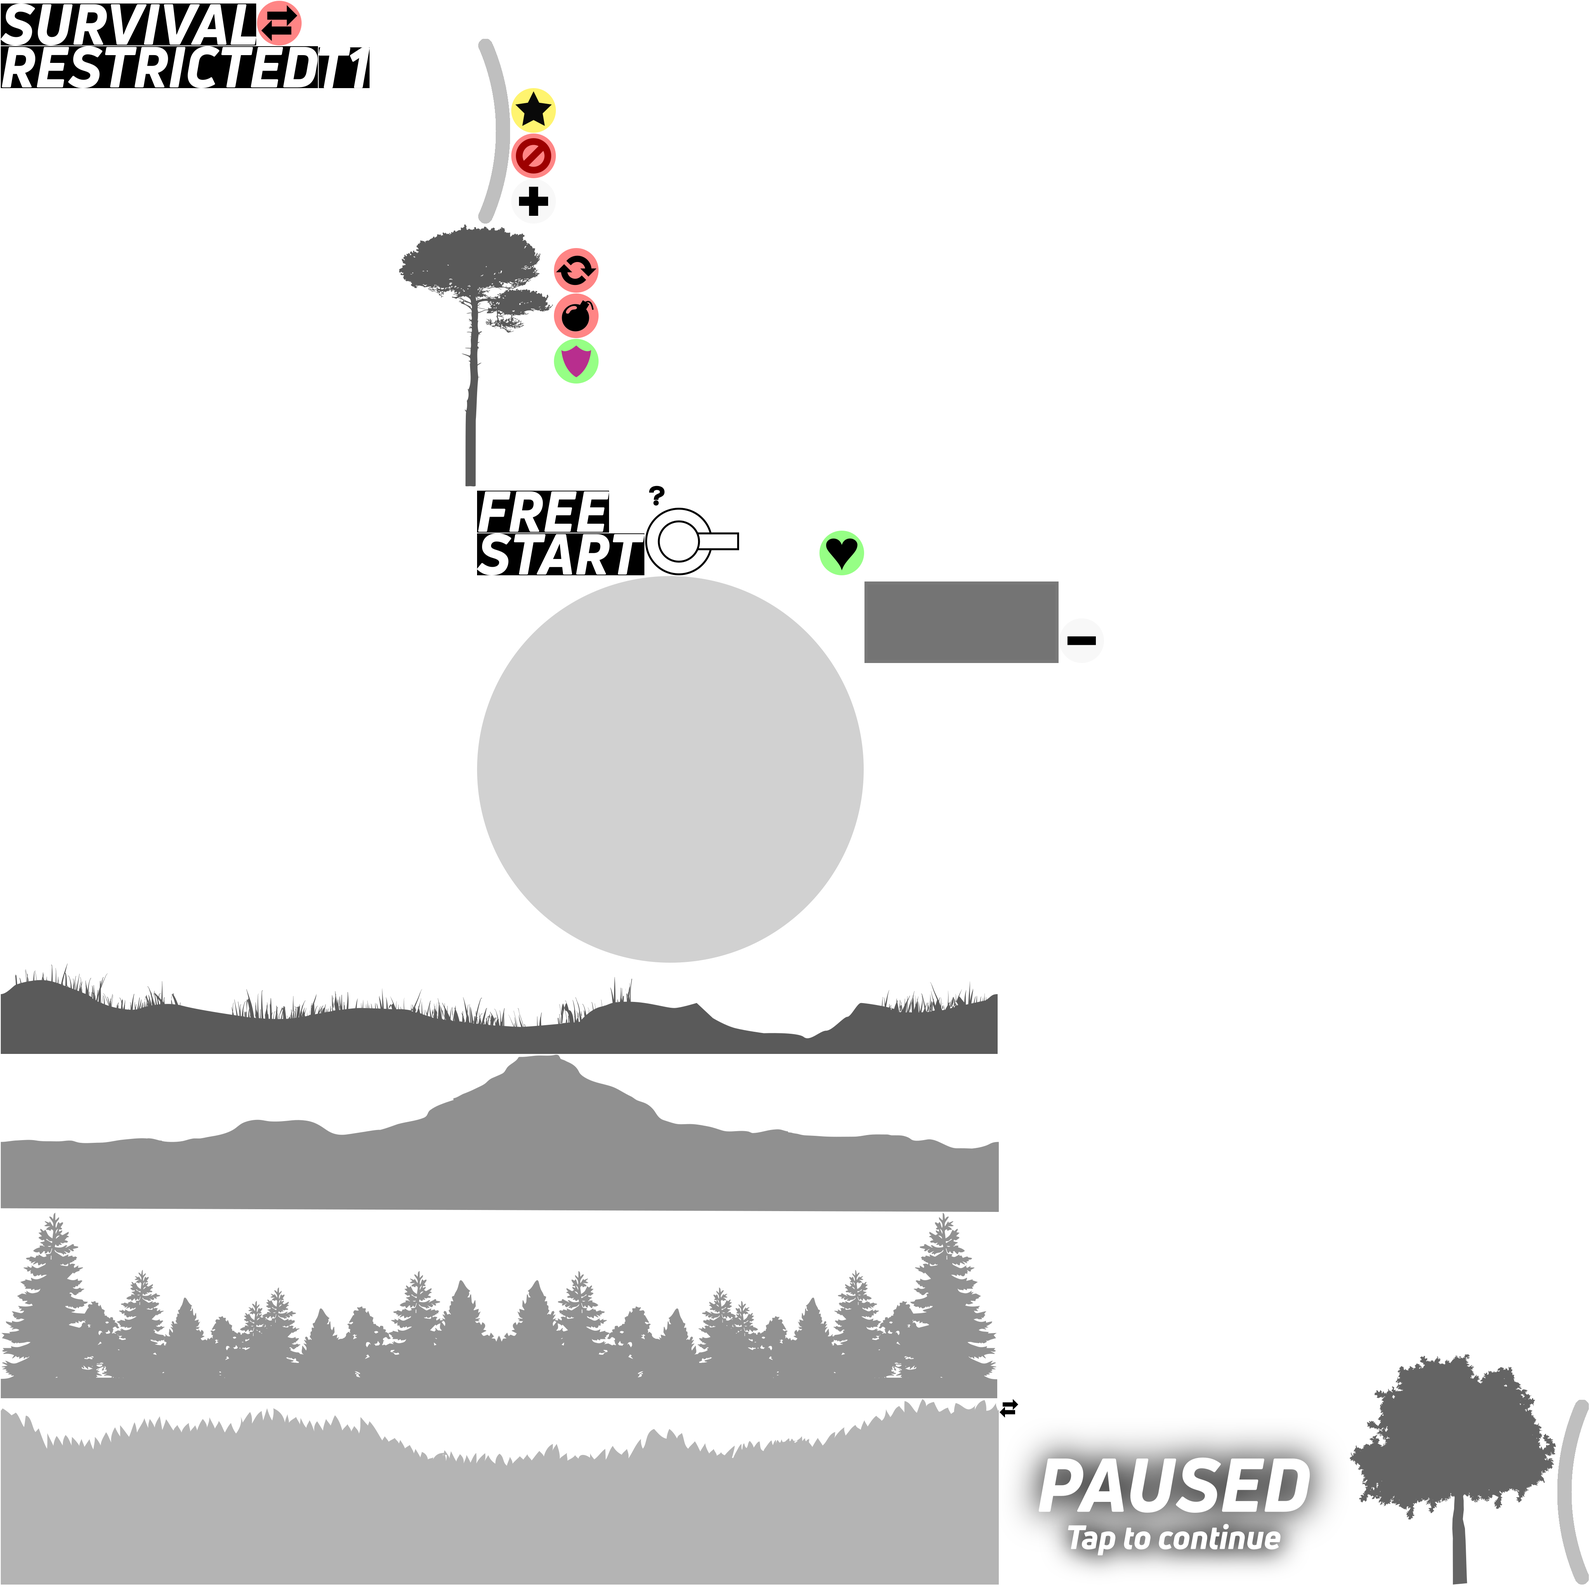
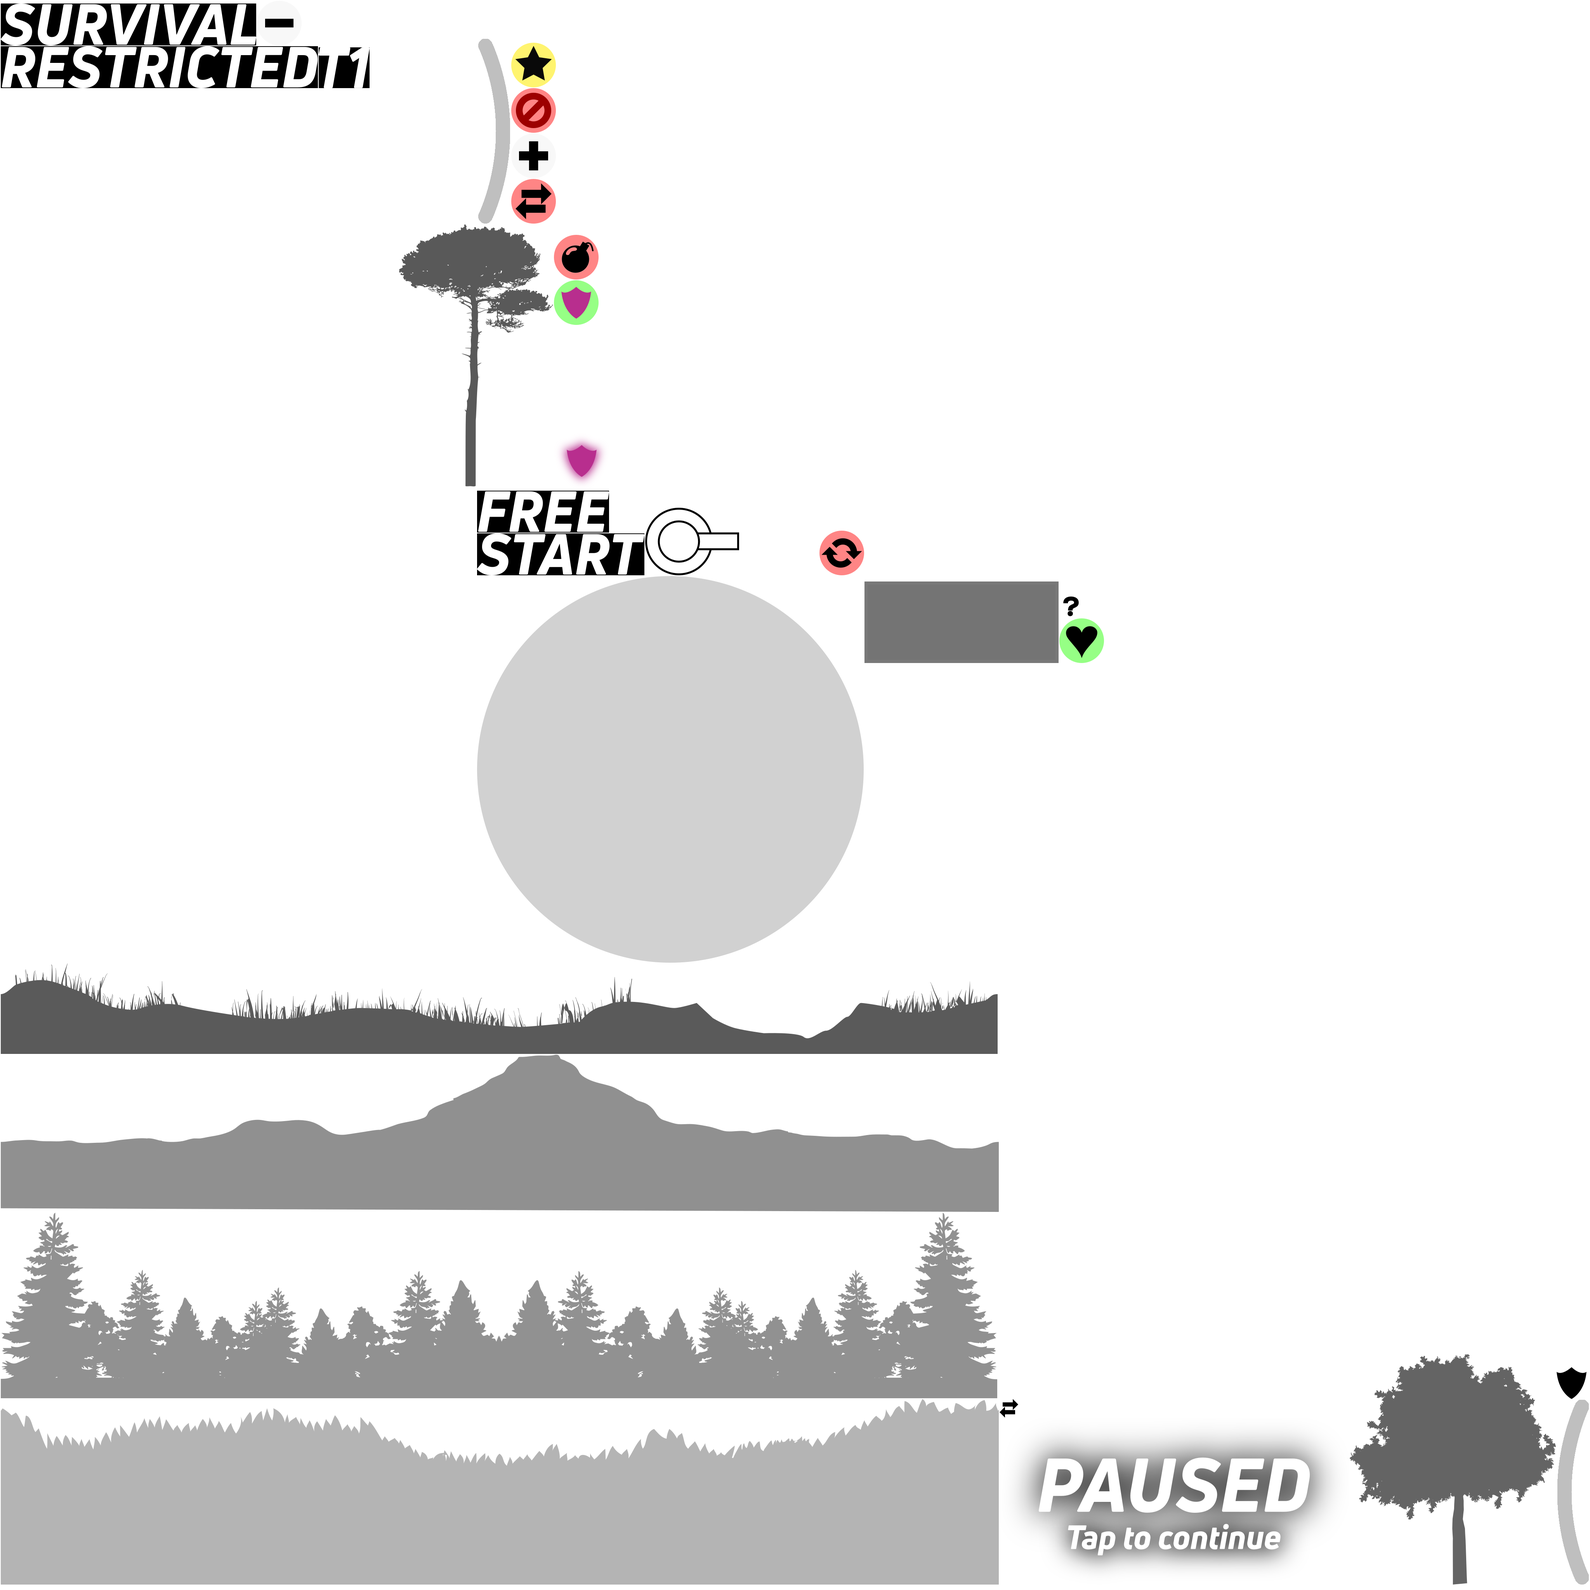
-> The UI of how many armor bullets the player collected. -> Some minor bugs. -> Naming some constants.

diff --git a/core/src/com/yaamani/battleshield/alpha/Game/Screens/Gameplay/LazerAttackStuff.java b/core/src/com/yaamani/battleshield/alpha/Game/Screens/Gameplay/LazerAttackStuff.java
@@ -2,7 +2,9 @@ package com.yaamani.battleshield.alpha.Game.Screens.Gameplay;
 
 import com.badlogic.gdx.Gdx;
 import com.badlogic.gdx.scenes.scene2d.actions.Actions;
+import com.badlogic.gdx.scenes.scene2d.ui.Image;
 import com.badlogic.gdx.utils.viewport.Viewport;
+import com.yaamani.battleshield.alpha.Game.Utilities.Assets;
 import com.yaamani.battleshield.alpha.MyEngine.MyMath;
 import com.yaamani.battleshield.alpha.MyEngine.MyText.SimpleText;
 import com.yaamani.battleshield.alpha.MyEngine.Resizable;
@@ -24,6 +26,12 @@ public class LazerAttackStuff implements Updatable, Resizable {
     private int currentNumOfLazerAttacksThatTookPlace;
 
     private int currentNumOfSpawnedArmorBulletsForTheNextAttack;
+    private int currentNumOfCollectedArmorBulletsByThePlayerForNextAttack;
+
+    // How many armor bullets the player collected ui.
+    private Image armorBlack;
+    private Image armorGlowing;
+    private SimpleText collectedArmorBulletsText;
 
     private Timer test;
 
@@ -33,40 +41,66 @@ public class LazerAttackStuff implements Updatable, Resizable {
         this.gameplayScreen = gameplayScreen;
         initializeNextLazerAttackTimer();
 
+        initializeHowManyArmorBulletsThePlayerCollected();
+
+
         test = new Timer(2000) {
             @Override
             public void onStart() {
                 super.onStart();
                 Gdx.app.log(TAG, "LAZER LAZER !!!!");
-                gameplayScreen.getControllerLeft().addAction(Actions.alpha(0, 0.25f));
-                gameplayScreen.getControllerRight().addAction(Actions.alpha(0, 0.25f));
+                gameplayScreen.getControllerLeft().addAction(Actions.alpha(0, LAZER_ALPHA_ACTION_DURATION));
+                gameplayScreen.getControllerRight().addAction(Actions.alpha(0, LAZER_ALPHA_ACTION_DURATION));
             }
 
             @Override
             public void onFinish() {
                 super.onFinish();
 
+                if (gameplayScreen.getState() != GameplayScreen.State.PLAYING) return;
+
                 currentNumOfLazerAttacksThatTookPlace++;
 
                 Gdx.app.log(TAG, "LAZER ENDS !!!!");
-                gameplayScreen.getControllerLeft().addAction(Actions.alpha(1, 0.2f));
-                gameplayScreen.getControllerRight().addAction(Actions.alpha(1, 0.2f));
+                gameplayScreen.getControllerLeft().addAction(Actions.alpha(1, LAZER_ALPHA_ACTION_DURATION));
+                gameplayScreen.getControllerRight().addAction(Actions.alpha(1, LAZER_ALPHA_ACTION_DURATION));
 
                 if (currentNumOfLazerAttacksThatTookPlace < LAZER_NUMBER_OF_LAZER_ATTACKS) {
-                    nextLazerAttackTimerText.addAction(Actions.alpha(1, 0.25f));
+                    nextLazerAttackTimerText.addAction(Actions.alpha(1, LAZER_ALPHA_ACTION_DURATION));
                     nextLazerAttackTimer.start();
+                } else {
+                    armorBlack.addAction(Actions.alpha(0, LAZER_ALPHA_ACTION_DURATION));
+                    armorGlowing.addAction(Actions.alpha(0, LAZER_ALPHA_ACTION_DURATION));
+                    collectedArmorBulletsText.addAction(Actions.alpha(0, LAZER_ALPHA_ACTION_DURATION));
                 }
+
+                currentNumOfCollectedArmorBulletsByThePlayerForNextAttack = 0;
+                updateCharacterSequenceForCollectedArmorBulletsText();
+                armorGlowing.addAction(Actions.alpha(0, LAZER_ALPHA_ACTION_DURATION));
 
                 lazerAttacking = false;
                 gameplayScreen.getBulletsHandler().newWave();
             }
         };
+
+        gameplayScreen.addToFinishWhenLosing(test);
     }
 
     @Override
     public void resize(int width, int height, float worldWidth, float worldHeight) {
         nextLazerAttackTimerText.setHeight(WORLD_SIZE/20f);
         nextLazerAttackTimerText.setPosition(worldWidth/2 - nextLazerAttackTimerText.getWidth()/2f, WORLD_SIZE*0.9f);
+
+        armorBlack.setHeight(LAZER_ARMOR_BULLET_HOW_MANY_COLLECTED_UI_HEIGHT);
+        armorGlowing.setHeight(LAZER_ARMOR_GLOWING_BULLET_HOW_MANY_COLLECTED_UI_HEIGHT);
+        collectedArmorBulletsText.setHeight(LAZER_TEXT_ARMOR_BULLET_HOW_MANY_COLLECTED_UI_HEIGHT);
+
+        armorBlack.setWidth(LAZER_ARMOR_BULLET_HOW_MANY_COLLECTED_UI_HEIGHT*LAZER_ARMOR_BULLET_HOW_MANY_COLLECTED_UI_WIDTH_RATIO);
+        armorGlowing.setWidth(LAZER_ARMOR_GLOWING_BULLET_HOW_MANY_COLLECTED_UI_HEIGHT*LAZER_ARMOR_GLOWING_BULLET_HOW_MANY_COLLECTED_UI_WIDTH_RATIO);
+
+        armorBlack.setPosition(worldWidth/2 - armorBlack.getWidth()/2f, LAZER_ARMOR_BULLET_HOW_MANY_COLLECTED_UI_Y);
+        armorGlowing.setPosition(worldWidth/2 - armorGlowing.getWidth()/2f, LAZER_ARMOR_GLOWING_BULLET_HOW_MANY_COLLECTED_UI_Y);
+        setPositionForCollectedArmorBulletsText();
     }
 
     @Override
@@ -76,6 +110,18 @@ public class LazerAttackStuff implements Updatable, Resizable {
         test.update(delta);
     }
 
+
+    private void setPositionForCollectedArmorBulletsText() {
+        Viewport viewport = gameplayScreen.getStage().getViewport();
+        float worldWidth = viewport.getWorldWidth();
+        collectedArmorBulletsText.setPosition(worldWidth/2 - collectedArmorBulletsText.getWidth()/2f, LAZER_TEXT_ARMOR_BULLET_HOW_MANY_COLLECTED_UI_Y);
+    }
+
+    private void updateCharacterSequenceForCollectedArmorBulletsText() {
+        String charSequence = currentNumOfCollectedArmorBulletsByThePlayerForNextAttack + "/" + LAZER_NECESSARY_NUMBER_OF_ARMOR_BULLETS_TO_ACTIVATE_THE_LAZER_ARMOR;
+        collectedArmorBulletsText.setCharSequence(charSequence, true);
+        setPositionForCollectedArmorBulletsText();
+    }
 
     /**
      * Milliseconds.
@@ -172,14 +218,50 @@ public class LazerAttackStuff implements Updatable, Resizable {
         currentNumOfSpawnedArmorBulletsForTheNextAttack--;
     }
 
-    //------------------------------ Getters And Setters ------------------------------
-    //------------------------------ Getters And Setters ------------------------------
-    //------------------------------ Getters And Setters ------------------------------
-    //------------------------------ Getters And Setters ------------------------------
+    public void incrementCurrentNumOfCollectedArmorBulletsByThePlayerForNextAttack() {
+        if (currentNumOfCollectedArmorBulletsByThePlayerForNextAttack == LAZER_NECESSARY_NUMBER_OF_ARMOR_BULLETS_TO_ACTIVATE_THE_LAZER_ARMOR)
+            return;
 
-    public SimpleText getNextLazerAttackTimerText() {
-        return nextLazerAttackTimerText;
+        currentNumOfCollectedArmorBulletsByThePlayerForNextAttack++;
+        updateCharacterSequenceForCollectedArmorBulletsText();
+
+        if (currentNumOfCollectedArmorBulletsByThePlayerForNextAttack == LAZER_NECESSARY_NUMBER_OF_ARMOR_BULLETS_TO_ACTIVATE_THE_LAZER_ARMOR
+                & armorGlowing.getColor().a == 0) {
+
+            armorGlowing.addAction(Actions.alpha(1, LAZER_ALPHA_ACTION_DURATION));
+        }
     }
+
+    public void show() {
+        nextLazerAttackTimerText.setVisible(true);
+        armorBlack.setVisible(true);
+        armorGlowing.setVisible(true);
+        collectedArmorBulletsText.setVisible(true);
+
+        armorBlack.setColor(1, 1, 1, 1);
+        collectedArmorBulletsText.setColor(BG_COLOR_GREY, BG_COLOR_GREY, BG_COLOR_GREY, 1);
+    }
+
+    public void hide() {
+        nextLazerAttackTimerText.setVisible(false);
+        armorBlack.setVisible(false);
+        armorGlowing.setVisible(false);
+        collectedArmorBulletsText.setVisible(false);
+    }
+
+    public void resetLazerStuff() {
+        lazerAttacking = false;
+        waitingForAllRemainingBulletsToBeCleared = false;
+        currentNumOfLazerAttacksThatTookPlace = 0;
+        currentNumOfSpawnedArmorBulletsForTheNextAttack = 0;
+        currentNumOfCollectedArmorBulletsByThePlayerForNextAttack = 0;
+        updateCharacterSequenceForCollectedArmorBulletsText();
+    }
+
+    //------------------------------ Getters And Setters ------------------------------
+    //------------------------------ Getters And Setters ------------------------------
+    //------------------------------ Getters And Setters ------------------------------
+    //------------------------------ Getters And Setters ------------------------------
 
     public Timer getNextLazerAttackTimer() {
         return nextLazerAttackTimer;
@@ -230,19 +312,34 @@ public class LazerAttackStuff implements Updatable, Resizable {
             @Override
             public void onFinish() {
                 super.onFinish();
+
+                if (gameplayScreen.getState() != GameplayScreen.State.PLAYING) return;
+
                 lazerAttacking = true;
                 waitingForAllRemainingBulletsToBeCleared = true;
 
-                nextLazerAttackTimerText.addAction(Actions.alpha(0, 0.5f));
+                nextLazerAttackTimerText.addAction(Actions.alpha(0, LAZER_ALPHA_ACTION_DURATION));
 
                 /*float timeLeftForTheLastBulletToDisappear = calculateTheTimeLeftForTheLastBulletToDisappear();
                 test.start(timeLeftForTheLastBulletToDisappear);*/
-
-
 
             }
         };
 
         gameplayScreen.addToFinishWhenLosing(nextLazerAttackTimer);
+    }
+
+    private void initializeHowManyArmorBulletsThePlayerCollected() {
+        armorBlack = new Image(Assets.instance.gameplayAssets.armorBlack);
+        armorGlowing = new Image(Assets.instance.gameplayAssets.armorGlowing);
+        collectedArmorBulletsText = new SimpleText(gameplayScreen.getMyBitmapFont(), "");
+        updateCharacterSequenceForCollectedArmorBulletsText();
+
+        gameplayScreen.addActor(armorBlack);
+        gameplayScreen.addActor(armorGlowing);
+        gameplayScreen.addActor(collectedArmorBulletsText);
+
+        armorGlowing.setColor(1, 1, 1, 0);
+        collectedArmorBulletsText.setColor(BG_COLOR_GREY, BG_COLOR_GREY, BG_COLOR_GREY, 1);
     }
 }

diff --git a/core/src/com/yaamani/battleshield/alpha/Game/Screens/Gameplay/GameplayScreen.java b/core/src/com/yaamani/battleshield/alpha/Game/Screens/Gameplay/GameplayScreen.java
@@ -164,10 +164,13 @@ public class GameplayScreen extends AdvancedScreen {
         rotation = Gdx.input.getRotation();
 
 
+        healthHandler.update(delta);
+
         lazerAttackStuff.update(delta);
 
-        if (lazerAttackStuff.isLazerAttacking())
+        if (lazerAttackStuff.isLazerAttacking()) {
             return;
+        }
 
 
         //Gdx.app.log(TAG, "free bullets = " + bulletsHandler.getBulletPool().getFree());
@@ -177,7 +180,6 @@ public class GameplayScreen extends AdvancedScreen {
 
         scoreTimerStuff.update(delta);
 
-        healthHandler.update(delta);
 
 
         shieldsAndContainersHandler.update(delta);
@@ -447,7 +449,7 @@ public class GameplayScreen extends AdvancedScreen {
 
             bulletsHandler.setCurrentPlanetSpecialBullets(null);
 
-            lazerAttackStuff.getNextLazerAttackTimerText().setVisible(false);
+            lazerAttackStuff.hide();
 
             //bulletsHandler.startSurvivalDifficultyTweens();
             bulletsHandler.getD_survival_bulletsPerAttackNumberTween().start();
@@ -467,7 +469,7 @@ public class GameplayScreen extends AdvancedScreen {
                     bulletsHandler.setCurrentPlanetSpecialBullets(CRYSTAL_SPECIAL_BULLETS);
                     bulletsHandler.setCurrentPlanetSpecialBulletsProbability(D_CRYSTAL_SPECIAL_BULLETS_PROBABILITY);
 
-                    lazerAttackStuff.getNextLazerAttackTimerText().setVisible(false);
+                    lazerAttackStuff.hide();
 
                     //bulletsHandler.startCrystalDifficultyTweens();
                     bulletsHandler.getD_crystal_bulletsPerAttackNumberTween().start();
@@ -481,7 +483,7 @@ public class GameplayScreen extends AdvancedScreen {
                     scoreTimerStuff.setLevelTime(DIZZINESS_LEVEL_TIME);
                     scoreTimerStuff.getScoreMultiplierDifficultyLevelStuff().dizziness();
 
-                    lazerAttackStuff.getNextLazerAttackTimerText().setVisible(false);
+                    lazerAttackStuff.hide();
 
                     bulletsHandler.setCurrentPlanetSpecialBullets(DIZZINESS_SPECIAL_BULLETS);
                     bulletsHandler.setCurrentPlanetSpecialBulletsProbability(D_DIZZINESS_SPECIAL_BULLETS_PROBABILITY);
@@ -500,7 +502,7 @@ public class GameplayScreen extends AdvancedScreen {
 
                     bulletsHandler.setCurrentPlanetSpecialBullets(null); // A custom algorithm for this planet's special bullet.
 
-                    lazerAttackStuff.getNextLazerAttackTimerText().setVisible(true);
+                    lazerAttackStuff.show();
                     lazerAttackStuff.getNextLazerAttackTimer().start();
 
                     bulletsHandler.getD_lazer_bulletsPerAttackNumberTween().start();

diff --git a/core/src/com/yaamani/battleshield/alpha/Game/Utilities/Constants.java b/core/src/com/yaamani/battleshield/alpha/Game/Utilities/Constants.java
@@ -12,7 +12,7 @@ import com.yaamani.battleshield.alpha.MyEngine.MyMath;
 public final class Constants {
 
 
-    private static final boolean NO_DEATH = true;
+    private static final boolean NO_DEATH = false;
 
 
 
@@ -447,6 +447,10 @@ public final class Constants {
 
     public static final int HEALTH_BAR_SAVING_TO_ANGLE = 360;
 
+    public static final float HEALTH_BAR_TWEEN_DURATION = 200; // ms
+
+    public static final Interpolation HEALTH_BAR_TWEEN_INTERPOLATION = Interpolation.exp5Out;
+
 
 
     public static final float STARS_SPEED = WORLD_SIZE / 70.0f;
@@ -863,7 +867,23 @@ public final class Constants {
 
     public static final float LAZER_LAZER_TIMER_DURATION = LAZER_LEVEL_TIME*60*1000/(LAZER_NUMBER_OF_LAZER_ATTACKS+1);
 
-    //public static final ;
+    public static final float LAZER_ARMOR_BULLET_HOW_MANY_COLLECTED_UI_HEIGHT = WORLD_SIZE / 20f;
+
+    public static final float LAZER_ARMOR_BULLET_HOW_MANY_COLLECTED_UI_WIDTH_RATIO = 0.93504589f;
+
+    public static final float LAZER_ARMOR_GLOWING_BULLET_HOW_MANY_COLLECTED_UI_HEIGHT = LAZER_ARMOR_BULLET_HOW_MANY_COLLECTED_UI_HEIGHT * 1.819289476578635f;
+
+    public static final float LAZER_ARMOR_GLOWING_BULLET_HOW_MANY_COLLECTED_UI_WIDTH_RATIO = 0.95890291f;
+
+    public static final float LAZER_TEXT_ARMOR_BULLET_HOW_MANY_COLLECTED_UI_HEIGHT = WORLD_SIZE / 28.5f;
+
+    public static final float LAZER_ARMOR_BULLET_HOW_MANY_COLLECTED_UI_Y = WORLD_SIZE * 0.505f;
+
+    public static final float LAZER_ARMOR_GLOWING_BULLET_HOW_MANY_COLLECTED_UI_Y = LAZER_ARMOR_BULLET_HOW_MANY_COLLECTED_UI_Y - (LAZER_ARMOR_GLOWING_BULLET_HOW_MANY_COLLECTED_UI_HEIGHT-LAZER_ARMOR_BULLET_HOW_MANY_COLLECTED_UI_HEIGHT)/2f;
+
+    public static final float LAZER_TEXT_ARMOR_BULLET_HOW_MANY_COLLECTED_UI_Y = WORLD_SIZE * 0.457f;
+
+    public static final float LAZER_ALPHA_ACTION_DURATION = 0.25f; // sec
 
 
     public static final int D_LAZER_BULLETS_MIN_NUMBER_PER_ATTACK = 1;
@@ -1035,5 +1055,9 @@ public final class Constants {
     public static final String ASSETS_ARMOR_HALO = "Armor Halo";
 
     public static final String ASSETS_LAZER_GUN = "Lazer Gun";
+
+    public static final String ASSETS_ARMOR_BLACK = "Armor Black";
+
+    public static final String ASSETS_ARMOR_GLOWING = "Armor Glowing";
 
 }

diff --git a/core/src/com/yaamani/battleshield/alpha/Game/Screens/Gameplay/HealthHandler.java b/core/src/com/yaamani/battleshield/alpha/Game/Screens/Gameplay/HealthHandler.java
@@ -24,14 +24,18 @@ public class HealthHandler implements Updatable {
         health = new TweenedFloat(1) {
             @Override
             public void onTween(float value) {
+
+                if (gameplayScreen.getState() != GameplayScreen.State.PLAYING) return;
+
                 if (gameplayScreen.getHealthBar() != null)
                     gameplayScreen.getHealthBar().setAngle(value*MathUtils.PI2);
 
-                if (value <= 0) {
+                if (this.getFinishedValue() <= 0) {
                     playerLost();
                 }
             }
         };
+        gameplayScreen.addToFinishWhenLosing(health.getTweenObj());
 
         //setHealth(1);
     }
@@ -48,7 +52,7 @@ public class HealthHandler implements Updatable {
     public void setHealth(float health) {
         float correctedHealth = MathUtils.clamp(health, 0, Float.MAX_VALUE);
         //this.health = correctedHealth;
-        this.health.tween(correctedHealth, 200, Interpolation.exp5Out);
+        this.health.tween(correctedHealth, HEALTH_BAR_TWEEN_DURATION, HEALTH_BAR_TWEEN_INTERPOLATION);
     }
 
     public void playerLost() {
@@ -94,6 +98,8 @@ public class HealthHandler implements Updatable {
 
 
         gameplayScreen.getLevelFinishStuff().getFinishText().setVisible(false);
+
+        gameplayScreen.getLazerAttackStuff().resetLazerStuff();
     }
 
     public void newGame() {
@@ -105,6 +111,8 @@ public class HealthHandler implements Updatable {
 
             gameplayScreen.setState(GameplayScreen.State.PLAYING);
             setHealth(1f);
+
+
             gameplayScreen.getScoreTimerStuff().resetScore();
             //gameplayScreen.getBulletsHandler().resetSpeedResetTime();
             gameplayScreen.getScoreTimerStuff().resetScore();

diff --git a/core/src/com/yaamani/battleshield/alpha/Game/Utilities/Assets.java b/core/src/com/yaamani/battleshield/alpha/Game/Utilities/Assets.java
@@ -155,6 +155,8 @@ public final class Assets implements Disposable, AssetErrorListener, Updatable {
 
         public final TextureRegion armorHalo;
         public final TextureRegion lazerGun;
+        public final TextureRegion armorBlack;
+        public final TextureRegion armorGlowing;
 
         public final TextureRegion pauseText;
         public final TextureRegion pauseSymbol;
@@ -192,6 +194,8 @@ public final class Assets implements Disposable, AssetErrorListener, Updatable {
 
             armorHalo = atlas.findRegion(ASSETS_ARMOR_HALO);
             lazerGun = atlas.findRegion(ASSETS_LAZER_GUN);
+            armorBlack = atlas.findRegion(ASSETS_ARMOR_BLACK);
+            armorGlowing = atlas.findRegion(ASSETS_ARMOR_GLOWING);
 
             pauseText = atlas.findRegion(ASSETS_PAUSE_TEXT);
             pauseSymbol = atlas.findRegion(ASSETS_PAUSE_SYMBOL);

diff --git a/core/src/com/yaamani/battleshield/alpha/Game/Screens/Gameplay/Bullet.java b/core/src/com/yaamani/battleshield/alpha/Game/Screens/Gameplay/Bullet.java
@@ -603,7 +603,7 @@ public class Bullet extends Group implements Resizable, Pool.Poolable {
             armor = new BulletEffect() {
                 @Override
                 public void effect() {
-
+                    gameplayScreen.getLazerAttackStuff().incrementCurrentNumOfCollectedArmorBulletsByThePlayerForNextAttack();
                 }
             };
             /*questionMark = new BulletEffect() {
